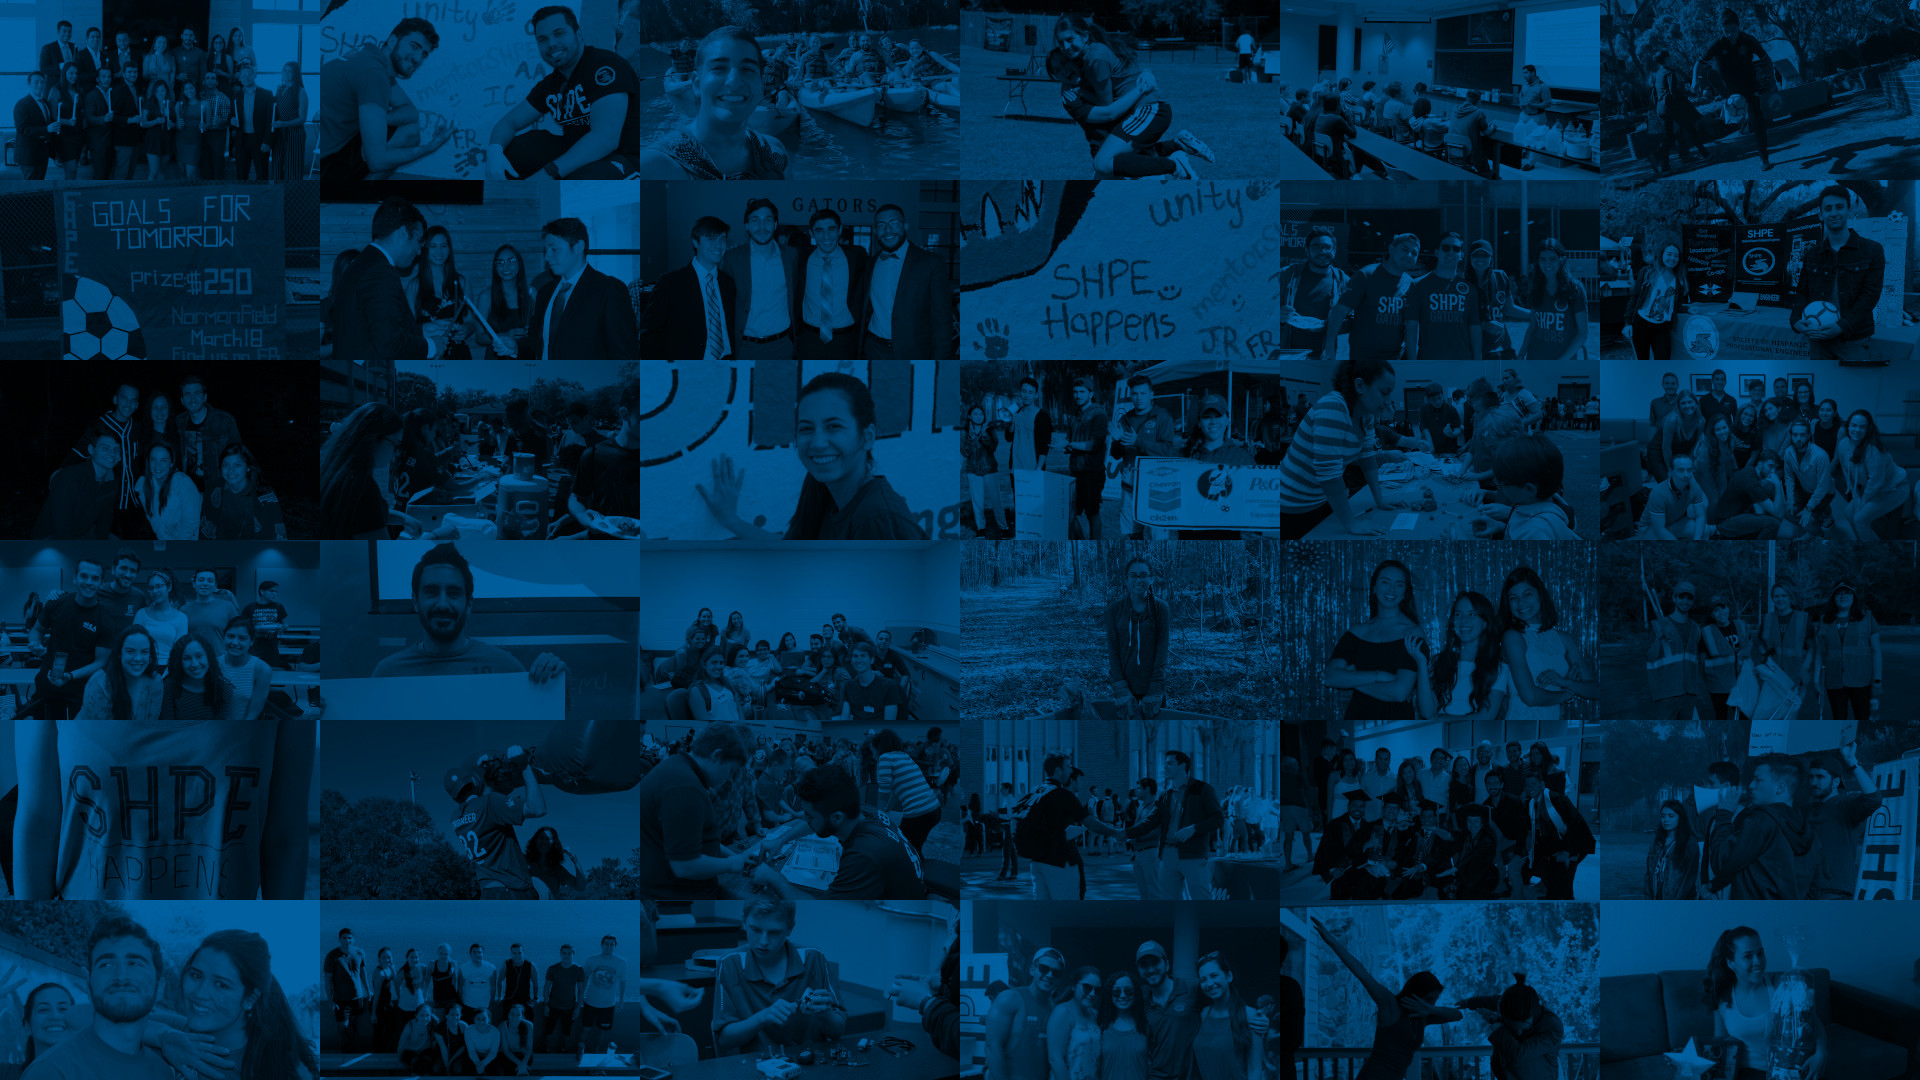
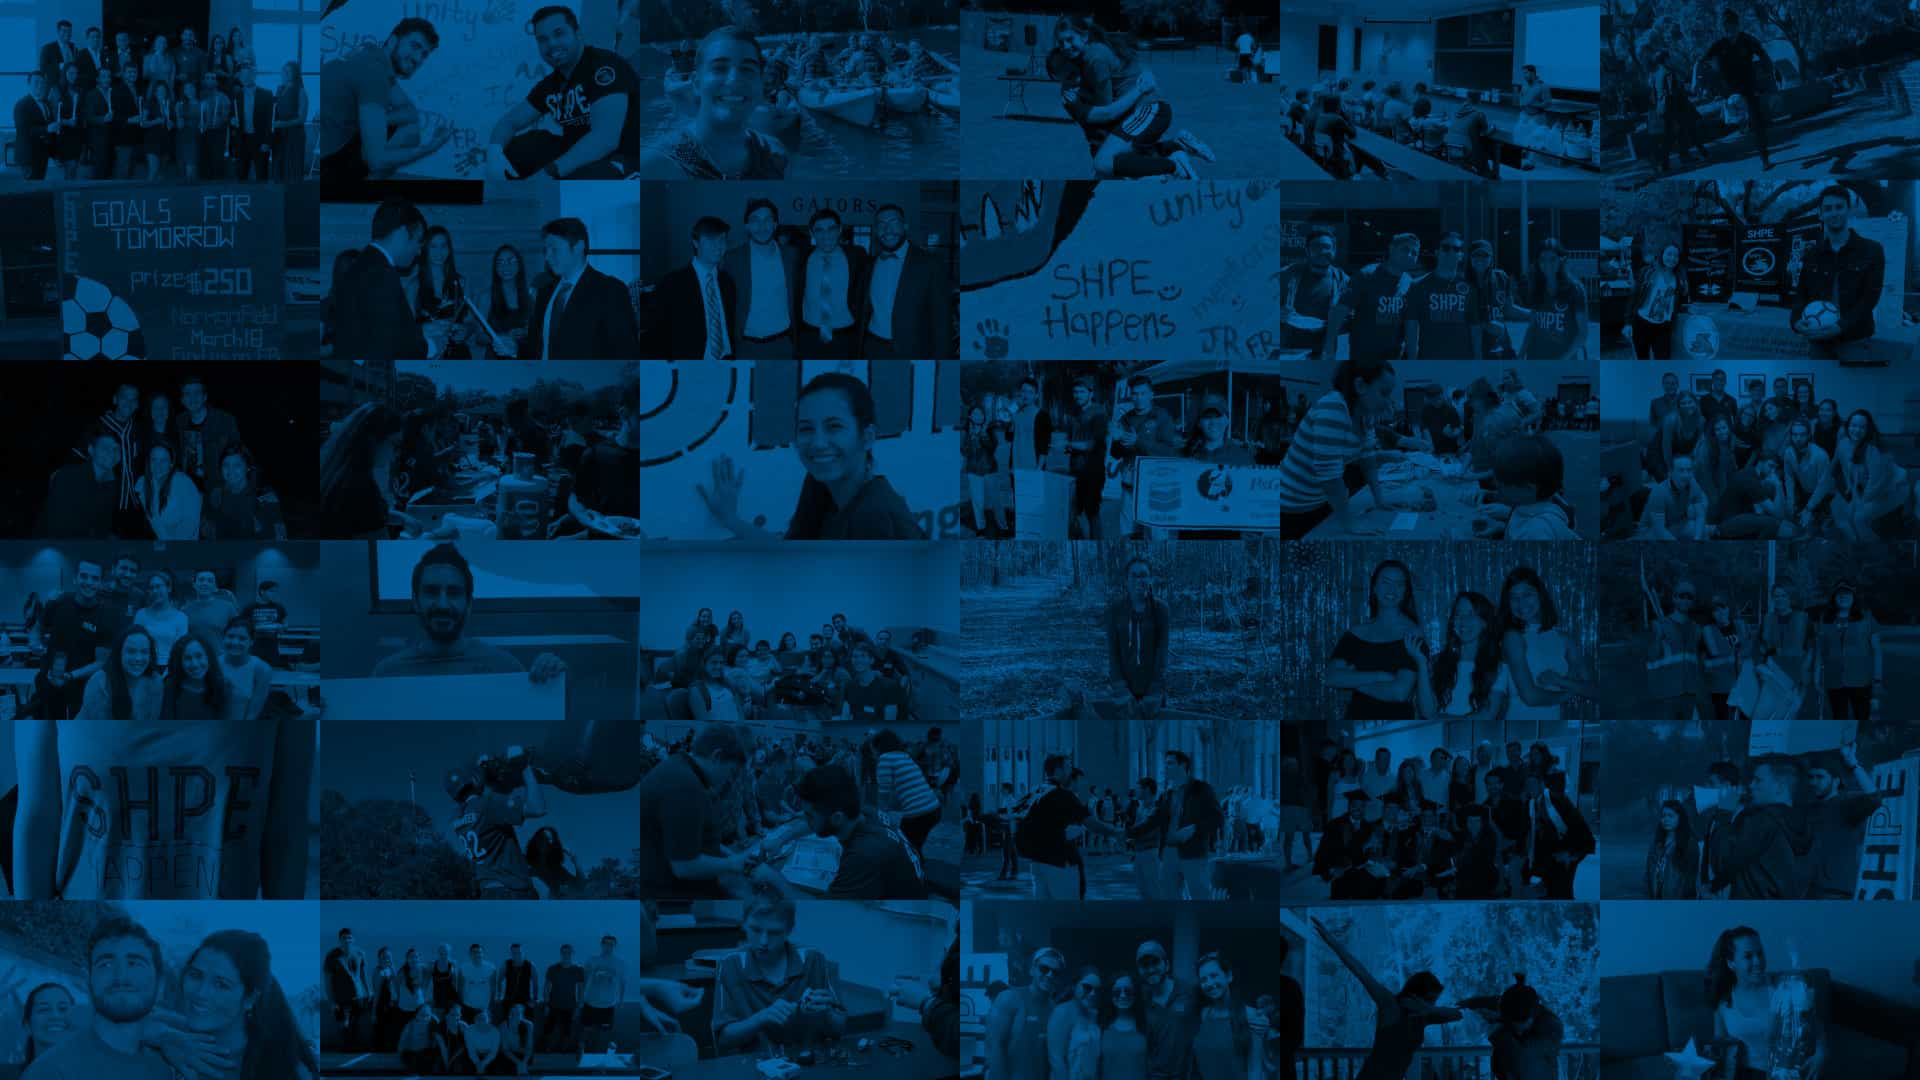
Optimized by image compression

diff --git a/public/app/views/pages/home.html b/public/app/views/pages/home.html
@@ -1,16 +1,19 @@
 <div class="jumbotron home-jumbotron text-center">
   <div class="container">
     <h1>University of Florida</h1>
-    <h1 class="white-text display-4">Society of Hispanic Professional Engineers</h1>
+    <h1 class="white-text">Society of Hispanic Professional Engineers</h1>
   </div>
 </div>
 
 <div class="container">
   <div class="row">
     <div class="col-sm-12">
-      <h1 class="display-4 text-center">WELCOME</h1>
+      <h1 class="text-center">WELCOME</h1>
       <p>
-        Welcome to the MemberSHPE UF Portal. Register and enjoy all the benefits available to you. You'll no longer have to make a line to sign in nor type all of your information at every SHPE UF event. Register once, login and type the event code to redeem your points. You'll be able to review the Points Rewards System and keep track of your points. In addition, you'll also be able to find and get in contact with SHPE UF alumnae willing to help and guide you. You'll be able to find alumnae who either work or live at where you'll working or interning. Gone are the days of sending your résumé via email for BBQ with Industry or any other professional, career-building event, upload your résumé to the Résumé Repository once and we'll take care of the rest.
+        Welcome to the MemberSHPE UF Portal. Register and enjoy all the benefits available to you. You'll no longer have to make a line to sign in nor type all of your information at every SHPE UF event. Register once, login and type the event code to redeem
+        your points. You'll be able to review the Points Rewards System and keep track of your points. In addition, you'll also be able to find and get in contact with SHPE UF alumnae willing to help and guide you. You'll be able to find alumnae who either
+        work or live at where you'll working or interning. Gone are the days of sending your résumé via email for BBQ with Industry or any other professional, career-building event, upload your résumé to the Résumé Repository once and we'll take care
+        of the rest.
       </p>
     </div>
   </div>
@@ -21,20 +24,49 @@
     <div class="col-md-4 col-sm-12 text-center">
       <h3>Incentives Program</h3>
       <i class="fas fa-10x fa-trophy"></i>
-      <p>Get familiarized with the SHPE UF Incentives Program and Points Rewards system. You'll longer need to wait in line to sign in. Login from your laptop, phone, anything with an internet connection, and enter the event code to redeem your point. View your points and see where you are within SHPE UF.</p>
+      <p>Get familiarized with the SHPE UF Incentives Program and Points Rewards system. You'll longer need to wait in line to sign in. Login from your laptop, phone, anything with an internet connection, and enter the event code to redeem your point. View
+        your points and see where you are within SHPE UF.</p>
     </div>
 
     <div class="col-md-4 col-sm-12 text-center">
       <h3>Alumni Directory</h3>
       <i class="fas fa-10x fa-globe-americas"></i>
-      <p>Got an internship? Got question about your major? Just moved and want to know what's there to do in town? Get in contact with one of the many SHPE UF alumnae willing to help you. You'll be able to search the Alumni Directory according to major, company, and location. Connect with alumnae and learn from their experiences.</p>
+      <p>Got an internship? Got question about your major? Just moved and want to know what's there to do in town? Get in contact with one of the many SHPE UF alumnae willing to help you. You'll be able to search the Alumni Directory according to major,
+        company, and location. Connect with alumnae and learn from their experiences.</p>
     </div>
 
     <div class="col-md-4 col-sm-12 text-center">
       <h3>Résumé Repository</h3>
       <i class="fas fa-10x fa-file-alt"></i>
-      <p>We have all forgotten to submit something by a deadline, don't let your résumé be one of those things. Submit your résumé to the Résumé Repository once and it's done. Your résumé will be sent to recruiters for events like BBQ with Industry and every career development event.</p>
+      <p>We have all forgotten to submit something by a deadline, don't let your résumé be one of those things. Submit your résumé to the Résumé Repository once and it's done. Your résumé will be sent to recruiters for events like BBQ with Industry and every
+        career development event.</p>
     </div>
+  </div>
+
+  <hr>
+
+  <div id="carouselExampleControls" class="carousel slide" data-ride="carousel">
+    <div class="carousel-inner">
+      <div class="carousel-item active">
+        <img class="d-block w-100" src="../../assets/images/home-1.jpg">
+      </div>
+      <div class="carousel-item">
+        <img class="d-block w-100" src="../../assets/images/home-2.jpg">
+      </div>
+      <div class="carousel-item">
+        <img class="d-block w-100" src="../../assets/images/home-3.jpg">
+      </div>
+    </div>
+
+    <a class="carousel-control-prev" href="#carouselExampleControls" role="button" data-slide="prev">
+      <span class="carousel-control-prev-icon" aria-hidden="true"></span>
+      <span class="sr-only">Previous</span>
+    </a>
+
+    <a class="carousel-control-next" href="#carouselExampleControls" role="button" data-slide="next">
+      <span class="carousel-control-next-icon" aria-hidden="true"></span>
+      <span class="sr-only">Next</span>
+    </a>
   </div>
 
 </div>

diff --git a/public/app/views/index.html b/public/app/views/index.html
@@ -66,11 +66,18 @@
 
   <div class="ng-view"></div>
 
-  <footer>
+  <!-- <div class="footer">
     <div class="container">
-      <p class="footer-text">Society of Hispanic Professional Engineers UF 2018</p>
+      <div class="row">
+        <div class="col-sm-12">
+          <h5>University of Florida</h5>
+          <h5>Society of Hispanic Professional Engineers</h5>
+          <p>SHPE's vision is a world where Hispanics are highly valued and influential as the leading innovators, scientists, mathematicians and engineers. We are brought together by heritage, social responsibility and desire to improve the equality of
+            all people through the use of science and technology.</p>
+        </div>
+      </div>
     </div>
-  </footer>
+  </div> -->
 
 </body>
 

diff --git a/public/assets/css/index-style.css b/public/assets/css/index-style.css
@@ -5,16 +5,12 @@
 
 body {
   font-family: 'Roboto';
-  color: rgb(32, 32, 32);
 }
 
-footer {
-  background-color: rgb(190, 190, 190);
-}
-
-.footer-text {
-  padding-top: 10px;
-  padding-bottom: 10px;
+.footer {
+  padding-top: 32px;
+  padding-bottom: 32px;
+  background-color: rgb(230, 230, 230);
 }
 
 .navbar-dark, .bg-dark {
@@ -62,6 +58,10 @@ hr {
   color: rgb(235, 70, 22);
   padding-top: 15px;
   padding-bottom: 15px;
+}
+
+.carousel {
+  padding-bottom: 50px;
 }
 
 .register-container, .login-container {
